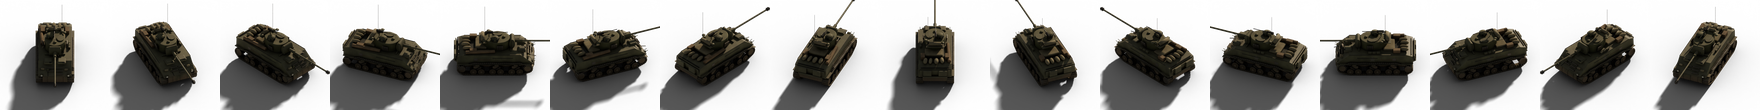
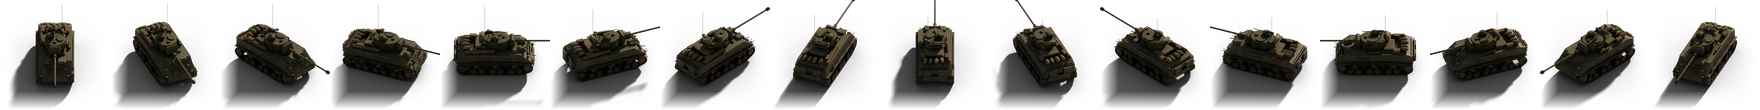
Game test: last-seen markers, shell craters, track marks, dust and gun smoke
Germans you lose sight of leave a faded figure and dashed ring where they were last seen,
fading over 25 seconds. Fallen Germans only appear once you've seen them. The tank sprite's
baked shadow now fades out before the sprite's edge.

Claude-Session: https://claude.ai/code/session_011xj5FBm1cQznXhe8SuFYZH

diff --git a/server/game/game.js b/server/game/game.js
@@ -8,7 +8,7 @@
   var VW = 1920, VH = 1080;
   var LEVEL, CAM, SPR, TILES, imgTank, imgInf, tiles = {}, heights = {};
   var oc = document.createElement('canvas'), octx = oc.getContext('2d');   // scratch canvas for hiding parts of units
-  var units = [], fx = [], selected = [], over = false, lastT = 0, clock = 0;
+  var units = [], fx = [], marks = [], selected = [], over = false, lastT = 0, clock = 0;
   var view = { x: 0, y: 0 };                         // top-left of the screen, in background pixels
   var block, tankBlock, G, CELL, HALF;
 
@@ -130,6 +130,7 @@
     return true;
   }
 
+  function mark(m) { marks.push(m); if (marks.length > 500) marks.shift(); }   // craters and track marks stay on the ground
   function boom(x, y, size, smoke) { fx.push({ t: 0, life: smoke ? 3 : 0.7, x: x, y: y, size: size, kind: smoke ? 'smoke' : 'boom' }); }
   function tracer(a, b, col) { fx.push({ t: 0, life: 0.12, ax: a.x, ay: a.y, az: a.kind === 'tank' ? 2.2 : 1.4, bx: b.x, by: b.y, bz: b.kind === 'tank' ? 1.2 : 1.0, col: col, kind: 'line' }); }
   var radio = [], log = window.__radio = []; function say(t) { log.push(Math.round(clock) + 's ' + t); radio.unshift({ t: clock, text: t }); radio = radio.slice(0, 3); }
@@ -173,12 +174,22 @@
     var allies = units.filter(function (u) { return u.side === 'allies' && alive(u); });
     var axis = units.filter(function (u) { return u.side === 'axis' && alive(u); });
     // spotting: a German is only on your screen while a Sherman can see him, or for a moment after he fires
-    axis.forEach(function (s) { if (s.fired > 0 || allies.some(function (a) { return dist(a, s) < 160 && seeLine(a.x, a.y, s.x, s.y); })) s.seenT = clock; });
+    var sees = function (s) { return allies.some(function (a) { return dist(a, s) < 160 && seeLine(a.x, a.y, s.x, s.y); }); };
+    axis.forEach(function (s) { if (s.fired > 0 || sees(s)) { s.seenT = clock; s.last = { x: s.x, y: s.y, h: s.h, pose: s.pose }; } });
+    units.forEach(function (s) { if (s.side === 'axis' && !alive(s) && !s.bodySeen && (clock - s.seenT < 0.5 || sees(s))) s.bodySeen = true; });
     units.forEach(function (u) {
       if (!alive(u)) { if (u.kind === 'tank' && Math.random() < dt * 3) boom(u.x + Math.random() - .5, u.y + Math.random() - .5, 2, true); return; }
       if (u.kind === 'tank') {
         var moving = move(u, 5.0, 0.9, dt) && !!u.path;
         u.state = moving ? 'move' : 'halted';
+        if (moving) {
+          // two track marks every couple of metres, and dust off the lane
+          if (!u.lastMark || Math.sqrt((u.x - u.lastMark[0]) * (u.x - u.lastMark[0]) + (u.y - u.lastMark[1]) * (u.y - u.lastMark[1])) > 2) {
+            if (u.lastMark) mark({ kind: 'track', ax: u.lastMark[0], ay: u.lastMark[1], bx: u.x, by: u.y, h: u.h });
+            u.lastMark = [u.x, u.y];
+          }
+          if (Math.random() < dt * 6) fx.push({ t: 0, life: 2.6, x: u.x - Math.cos(u.h) * 3.5 + Math.random() - .5, y: u.y - Math.sin(u.h) * 3.5 + Math.random() - .5, size: 2.5, kind: 'dust' });
+        } else u.lastMark = null;
         var aim = moving ? 0.6 : 1;                     // firing on the move is far less accurate
         u.gun -= dt; u.mg -= dt;
         var seen = axis.filter(function (s) { return dist(u, s) < 160 && seeLine(u.x, u.y, s.x, s.y); });
@@ -191,7 +202,8 @@
         if (seen.length && u.gun <= 0) {                // 76 mm high explosive into the thickest group
           var tg = seen[Math.floor(Math.random() * Math.min(3, seen.length))]; u.gun = 5.5;
           var sc = moving ? 6 : 2, ang = Math.random() * 6.28, bx = tg.x + Math.cos(ang) * sc * Math.random(), by = tg.y + Math.sin(ang) * sc * Math.random();
-          tracer(u, { x: bx, y: by, kind: 'inf' }, 'rgba(255,240,200,1)'); boom(bx, by, 6, false);
+          tracer(u, { x: bx, y: by, kind: 'inf' }, 'rgba(255,240,200,1)'); boom(bx, by, 6, false); mark({ kind: 'crater', x: bx, y: by, r: 1.6 + Math.random() * .6 });
+          fx.push({ t: 0, life: 1.8, x: u.x + Math.cos(u.h) * 5.5, y: u.y + Math.sin(u.h) * 5.5, size: 2.2, kind: 'smoke' });
           axis.forEach(function (s) {
             var d = Math.sqrt((s.x - bx) * (s.x - bx) + (s.y - by) * (s.y - by));
             if (d < 14) suppress(s, 70 - d * 3);
@@ -223,6 +235,7 @@
             u.path = null; u.pose = 'aim'; turnTo(u, Math.atan2(tgt.y - u.y, tgt.x - u.x), 4, dt);
             if (u.shot <= 0) {
               u.pf = 0; u.fired = 0.25; u.pose = 'fire'; tracer(u, tgt, 'rgba(255,160,80,1)'); boom(tgt.x, tgt.y, 3, false);
+              fx.push({ t: 0, life: 2.2, x: u.x - Math.cos(u.h) * 2, y: u.y - Math.sin(u.h) * 2, size: 2, kind: 'dust' });   // the back-blast kicks up dirt
               var chance = 0.85 * (tgt.state === 'move' ? 0.8 : 1) * (1 - u.supp / 300);
               if (Math.random() < chance) {
                 var arm = armour(tgt, u); tgt.hp -= arm[1];
@@ -280,6 +293,23 @@
         if (tiles[k].complete) ctx.drawImage(tiles[k], c * T - view.x, r * T - view.y);
         if (!heights[k]) loadHeights(k);
       }
+    marks.forEach(function (m) {
+      if (m.kind === 'crater') {
+        var c = proj(m.x, m.y, 0), cx = c[0] - view.x, cy = c[1] - view.y, rx = m.r / CAM.mPerPx;
+        if (cx < -40 || cy < -40 || cx > VW + 40 || cy > VH + 40 || heightAt(Math.floor(c[0]), Math.floor(c[1])) > 0.4) return;
+        var gr = ctx.createRadialGradient(cx, cy, 1, cx, cy, rx * 1.6);
+        gr.addColorStop(0, 'rgba(28,24,18,.75)'); gr.addColorStop(0.45, 'rgba(45,38,28,.5)'); gr.addColorStop(1, 'rgba(60,50,36,0)');
+        ctx.fillStyle = gr; ctx.beginPath(); ctx.ellipse(cx, cy, rx * 1.6, rx * 1.6 * CAM.up[2], 0, 0, 6.3); ctx.fill();
+      } else {
+        var nx = -Math.sin(m.h) * 1.1, ny = Math.cos(m.h) * 1.1;
+        ctx.strokeStyle = 'rgba(40,34,24,.22)'; ctx.lineWidth = 4; ctx.beginPath();
+        [-1, 1].forEach(function (sd) {
+          var a = proj(m.ax + nx * sd, m.ay + ny * sd, 0), b = proj(m.bx + nx * sd, m.by + ny * sd, 0);
+          ctx.moveTo(a[0] - view.x, a[1] - view.y); ctx.lineTo(b[0] - view.x, b[1] - view.y);
+        });
+        ctx.stroke();
+      }
+    });
     // selection rings and routes under the units
     selected.forEach(function (u) {
       if (!alive(u)) return;
@@ -304,8 +334,9 @@
       } else {
         p = proj(u.x, u.y, SPR.infantryLookZ);
         var s2 = SPR.infantry, d = ((Math.round(u.h / (Math.PI / 4)) % 8) + 8) % 8;
-        var vis = 1 - (clock - u.seenT) / 1.5; if (vis <= 0 && alive(u)) return;
-        if (!alive(u)) { var g = proj(u.x, u.y, 0); if (heightAt(Math.floor(g[0]), Math.floor(g[1])) > 0.4) return; ctx.fillStyle = 'rgba(30,28,22,.75)'; ctx.beginPath(); ctx.ellipse(g[0] - view.x, g[1] - view.y, 6, 3, 0, 0, 6.3); ctx.fill(); return; }
+        var vis = 1 - (clock - u.seenT) / 1.5;
+        if (vis <= 0 && alive(u)) { lastSeen(u, s2); return; }
+        if (!alive(u)) { if (!u.bodySeen) return; var g = proj(u.x, u.y, 0); if (heightAt(Math.floor(g[0]), Math.floor(g[1])) > 0.4) return; ctx.fillStyle = 'rgba(30,28,22,.75)'; ctx.beginPath(); ctx.ellipse(g[0] - view.x, g[1] - view.y, 6, 3, 0, 0, 6.3); ctx.fill(); return; }
         ctx.globalAlpha = Math.min(1, vis);
         var gp = proj(u.x, u.y, 0);
         if (heightAt(Math.floor(gp[0]), Math.floor(gp[1])) < 0.4) { ctx.fillStyle = 'rgba(214,80,60,.35)'; ctx.beginPath(); ctx.ellipse(gp[0] - view.x, gp[1] - view.y, 9, 5, 0, 0, 6.3); ctx.fill(); }
@@ -326,9 +357,10 @@
       } else if (f.kind === 'spark') {
         var q = proj(f.x, f.y, 1.5); ctx.fillStyle = 'rgba(255,230,160,' + (1 - k) + ')'; ctx.fillRect(q[0] - view.x - 2, q[1] - view.y - 2, 4, 4);
       } else {
-        var z = f.kind === 'smoke' ? 1 + k * 8 : 0.5, q2 = proj(f.x, f.y, z), rad = f.size * (f.kind === 'smoke' ? (0.6 + k) : (0.4 + k * 0.8)) / CAM.mPerPx;
+        var z = f.kind === 'smoke' ? 1 + k * 8 : f.kind === 'dust' ? 0.6 + k * 1.5 : 0.5, q2 = proj(f.x, f.y, z), rad = f.size * (f.kind === 'smoke' || f.kind === 'dust' ? (0.6 + k * 1.4) : (0.4 + k * 0.8)) / CAM.mPerPx;
         var gr = ctx.createRadialGradient(q2[0] - view.x, q2[1] - view.y, 1, q2[0] - view.x, q2[1] - view.y, rad);
         if (f.kind === 'smoke') { gr.addColorStop(0, 'rgba(70,68,62,' + 0.45 * (1 - k) + ')'); gr.addColorStop(1, 'rgba(70,68,62,0)'); }
+        else if (f.kind === 'dust') { gr.addColorStop(0, 'rgba(150,132,104,' + 0.32 * (1 - k) + ')'); gr.addColorStop(1, 'rgba(150,132,104,0)'); }
         else { gr.addColorStop(0, 'rgba(255,230,170,' + (1 - k) + ')'); gr.addColorStop(0.4, 'rgba(240,140,50,' + 0.8 * (1 - k) + ')'); gr.addColorStop(1, 'rgba(80,60,40,0)'); }
         ctx.fillStyle = gr; ctx.beginPath(); ctx.arc(q2[0] - view.x, q2[1] - view.y, rad, 0, 6.3); ctx.fill();
       }
@@ -376,6 +408,17 @@
     ctx.drawImage(oc, dx, dy);
   }
 
+  function lastSeen(u, s2) {
+    // where you last saw him: a faded figure and a dashed ring, fading over 25 seconds. He may well have moved.
+    var age = clock - u.seenT; if (!u.last || age > 25) return;
+    var a = 1 - age / 25, g = proj(u.last.x, u.last.y, 0), p = proj(u.last.x, u.last.y, SPR.infantryLookZ);
+    var d = ((Math.round(u.last.h / (Math.PI / 4)) % 8) + 8) % 8, i = Math.max(0, SPR.poses.indexOf(u.last.pose === 'walk' ? 'idle' : u.last.pose));
+    ctx.globalAlpha = 0.28 * a;
+    ctx.drawImage(imgInf, i * s2, d * s2, s2, s2, p[0] - view.x - s2 / 2, p[1] - view.y - s2 / 2, s2, s2);
+    ctx.globalAlpha = 0.7 * a; ctx.strokeStyle = '#D6503C'; ctx.lineWidth = 1.5; ctx.setLineDash([4, 4]);
+    ctx.beginPath(); ctx.ellipse(g[0] - view.x, g[1] - view.y, 12, 7, 0, 0, 6.3); ctx.stroke(); ctx.setLineDash([]);
+    ctx.globalAlpha = 1;
+  }
   function badge(u, x, y) {
     // cover: a green shield; pinned: amber chevrons; assault: red arrow; retreat: grey arrow; open ground: nothing
     ctx.lineWidth = 2;
@@ -469,7 +512,7 @@
     view.x = (c0[0] + c1[0]) / 2 - VW / 2; view.y = (c0[1] + c1[1]) / 2 - VH / 2; clampView();
     document.getElementById('loading').style.display = 'none';
     say('Two Shermans in the lane. Germans reported around the farm.');
-    window.__game = { units: units, update: update, draw: function () { draw(); }, order: order, proj: proj, view: view, selected: function () { return selected; } };
+    window.__game = { clock: function () { return clock; }, units: units, update: update, draw: function () { draw(); }, order: order, proj: proj, view: view, selected: function () { return selected; } };
     requestAnimationFrame(frame);
   });
 })();
